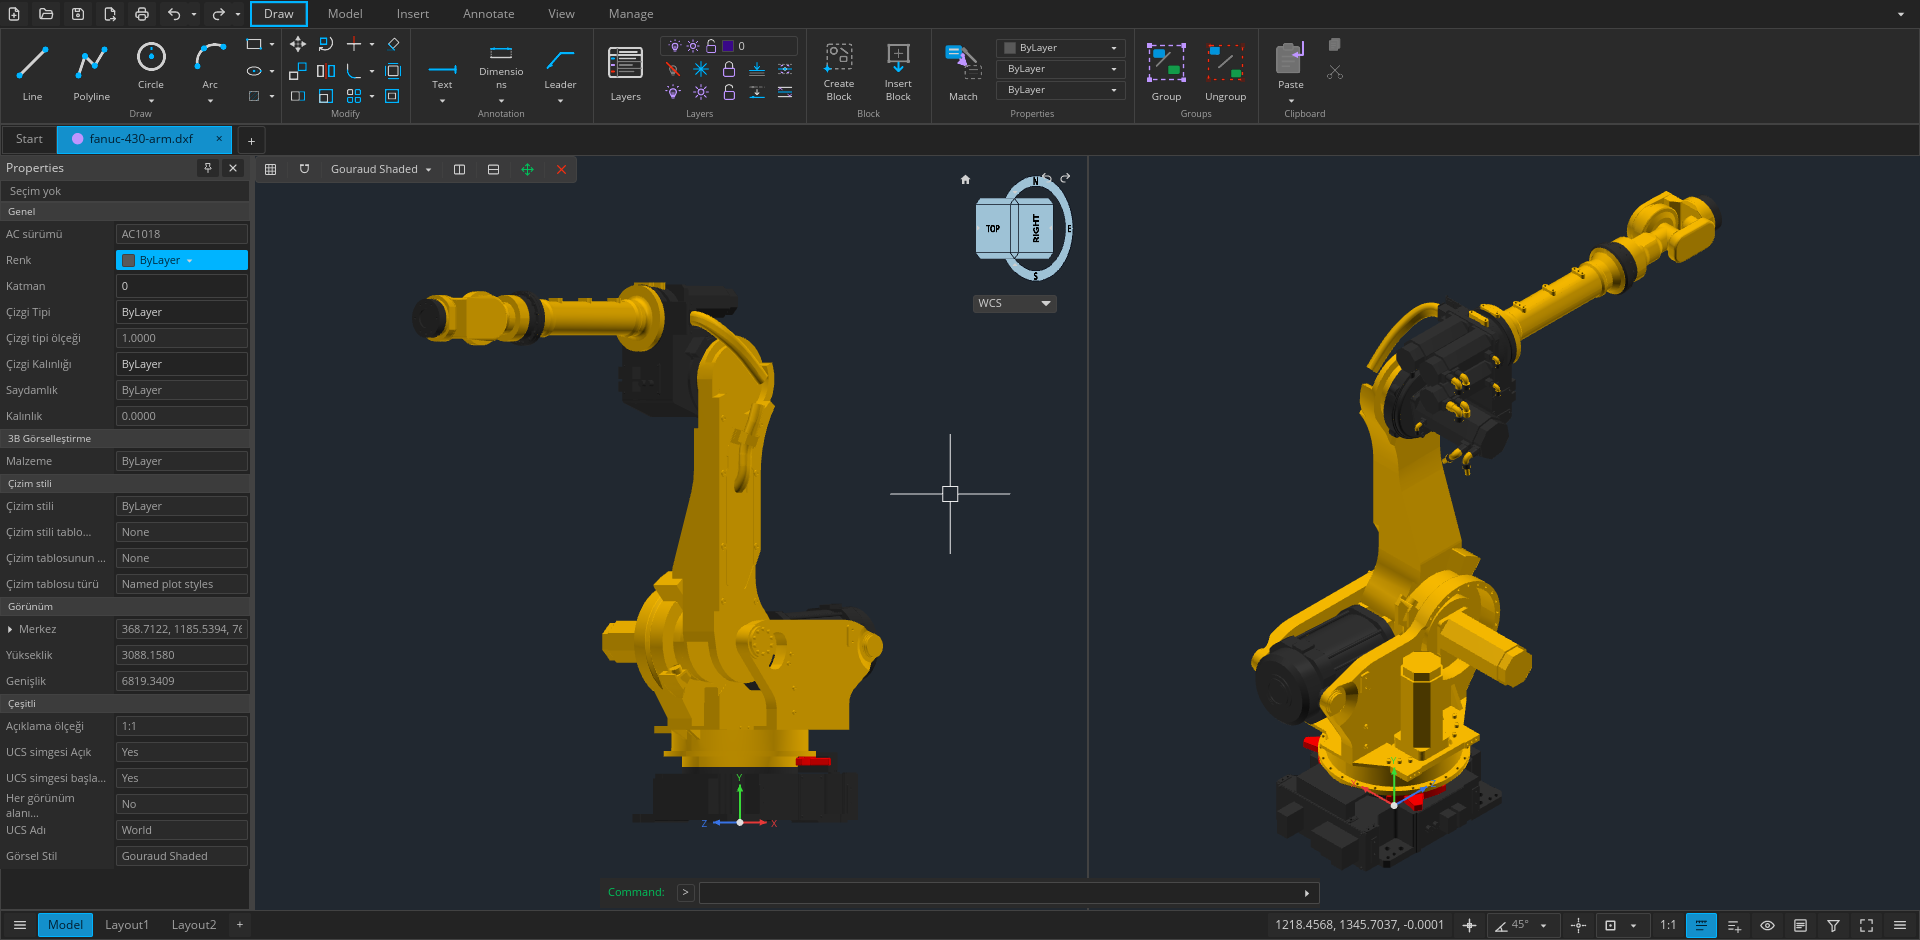
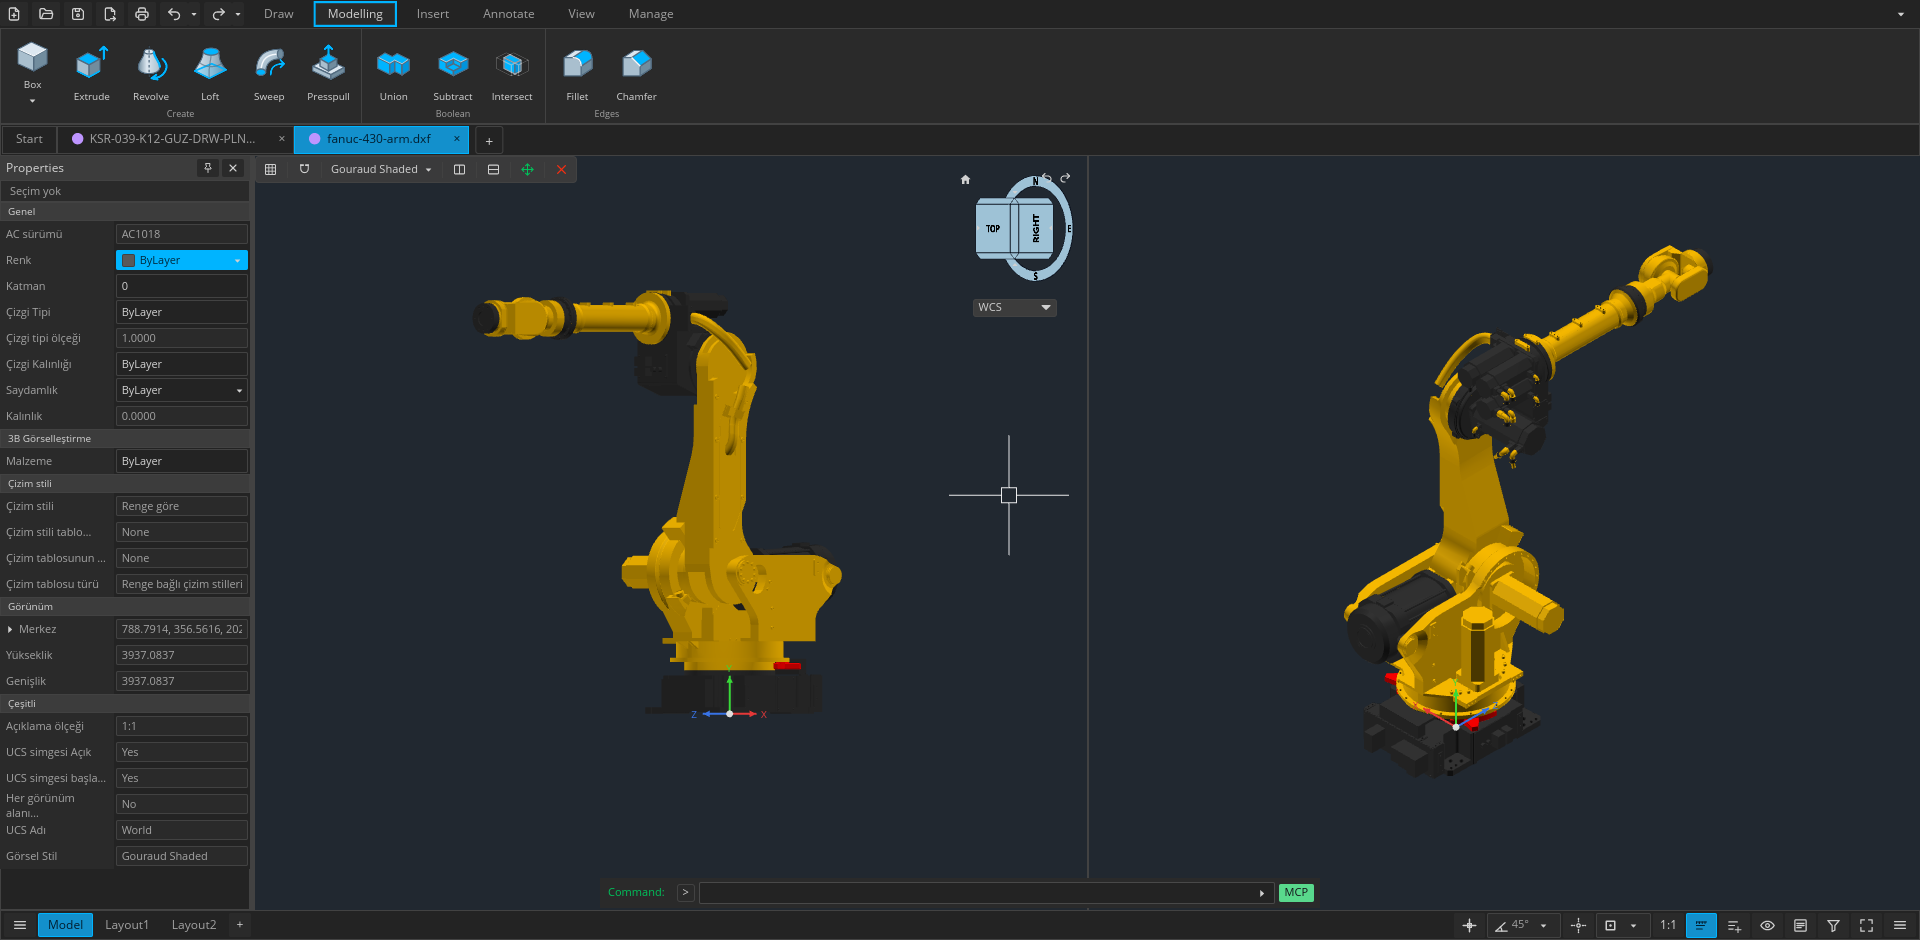
Refresh shared website and README screenshots

diff --git a/index.html b/index.html
@@ -14,19 +14,19 @@
     <link rel="manifest" href="{{path}}site.webmanifest" />
     <link rel="stylesheet" href="/site.css?v={{css_version}}" />
     <script src="/site.js?v={{js_version}}"></script>
-    <link rel="preload" as="image" href="/assets/workspace.png" fetchpriority="high" />
+    <link rel="preload" as="image" href="{{workspace}}" fetchpriority="high" />
     <meta property="og:type" content="website" />
     <meta property="og:site_name" content="Open CAD Studio" />
     <meta property="og:title" content="{{title}}" />
     <meta property="og:description" content="{{description}}" />
     <meta property="og:url" content="{{url}}" />
     <meta property="og:locale" content="{{og_locale}}" />
-    <meta property="og:image" content="https://www.opencadstudio.com/og.png" />
+    <meta property="og:image" content="https://www.opencadstudio.com{{workspace}}" />
     <meta property="og:image:alt" content="{{workspace_alt}}" />
     <meta name="twitter:card" content="summary_large_image" />
     <meta name="twitter:title" content="{{title}}" />
     <meta name="twitter:description" content="{{description}}" />
-    <meta name="twitter:image" content="https://www.opencadstudio.com/og.png" />
+    <meta name="twitter:image" content="https://www.opencadstudio.com{{workspace}}" />
     <script type="application/ld+json">{{schema}}</script>
   </head>
   <body>
@@ -69,7 +69,7 @@
           <div class="visual-toolbar" aria-hidden="true" dir="ltr">
             <span class="window-mark"><i></i><i></i><i></i></span><span>technical-plan.dwg</span><b>2D</b>
           </div>
-          <img src="/assets/workspace.png" width="1920" height="940" alt="{{workspace_alt}}" fetchpriority="high" />
+          <img src="{{workspace}}" width="1920" height="940" alt="{{workspace_alt}}" fetchpriority="high" />
           <div class="visual-badge"><strong>DWG</strong><span>{{native_editing}}</span></div>
         </div>
       </section>
@@ -110,7 +110,7 @@
             <ul class="check-list"><li>{{camera}}</li><li>{{tessellation}}</li><li>{{mesh_workflow}}</li></ul>
           </div>
           <figure class="model-frame">
-            <img src="/assets/modeling.png" width="1920" height="940" alt="{{model_alt}}" loading="lazy" />
+            <img src="{{modeling}}" width="1920" height="940" alt="{{model_alt}}" loading="lazy" />
             <figcaption><span>{{model_space}}</span><strong>{{model_caption}}</strong></figcaption>
           </figure>
         </div>

diff --git a/scripts/build-site.py b/scripts/build-site.py
@@ -47,6 +47,8 @@ def build(output):
         return path
 
     logo = asset(ROOT / "assets/logo.svg")
+    workspace = asset(ROOT / "site/workspace.png")
+    modeling = asset(ROOT / "site/modeling.png")
     shutil.copyfile(ROOT / "assets/logo.svg", output / "assets/logo.svg")
     ico = asset(ROOT / "site/favicon.ico")
     touch = asset(ROOT / "site/apple-touch-icon.png")
@@ -86,7 +88,8 @@ def build(output):
         values = {key: escape(value) for key, value in messages.items()}
         values.update(locale=locale, direction="rtl" if locale == "ar-SA" else "ltr",
                       path=path, url=BASE + path, og_locale=locale.replace("-", "_"),
-                      logo=logo, icons=icons, css_version=css_version, js_version=js_version, alternates=alternates,
+                      logo=logo, workspace=workspace, modeling=modeling, icons=icons,
+                      css_version=css_version, js_version=js_version, alternates=alternates,
                       languages=escape(messages["languages"].format(count=len(catalogs))),
                       language_links=language_links,
                       schema=json.dumps(schema, ensure_ascii=False).replace("<", "\\u003c"))

diff --git a/site/README.md b/site/README.md
@@ -10,5 +10,8 @@ use explicit locale paths and remember manual choices when browser storage is av
 Arabic uses a right-to-left layout. Icons are exported from `assets/logo.svg`;
 update the PNG/ICO files in this directory when the logo changes.
 
+`workspace.png` and `modeling.png` are shared by the website and all README languages.
+The drawing screenshot also supplies the social preview; website image URLs change with their contents.
+
 GitHub Pages publishes website changes from `main` while building the app from the
 latest release. Each deployment records both sources separately.
